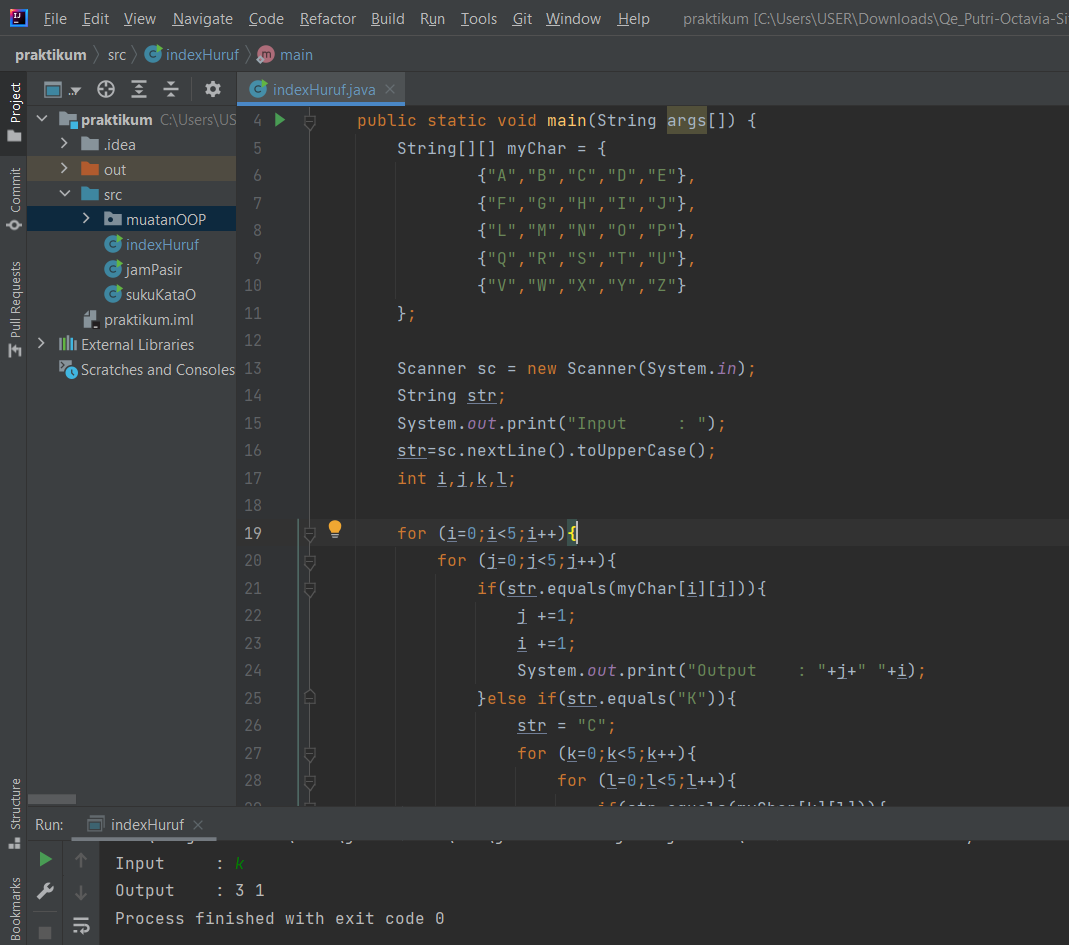
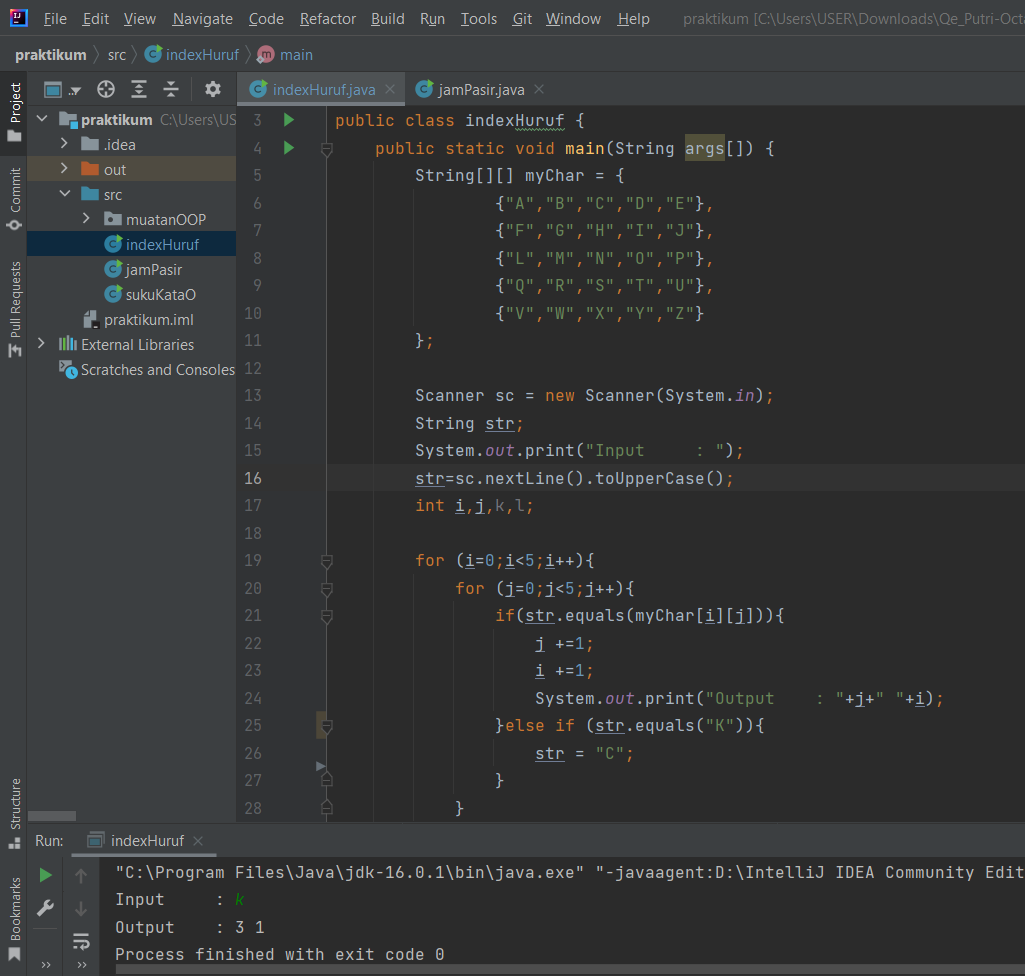
update ubah huruf

diff --git a/big_task_2/praktikum/src/indexHuruf.java b/big_task_2/praktikum/src/indexHuruf.java
@@ -22,16 +22,8 @@ public class indexHuruf {
                     j +=1;
                     i +=1;
                     System.out.print("Output    : "+j+" "+i);
-                }else if(str.equals("K")){
+                }else if (str.equals("K")){
                     str = "C";
-                    for (k=0;k<5;k++){
-                        for (l=0;l<5;l++){
-                            if(str.equals(myChar[k][l])){
-                                k +=1;
-                                l +=1;
-                            }
-                        }
-                    }
                 }
             }
         }
